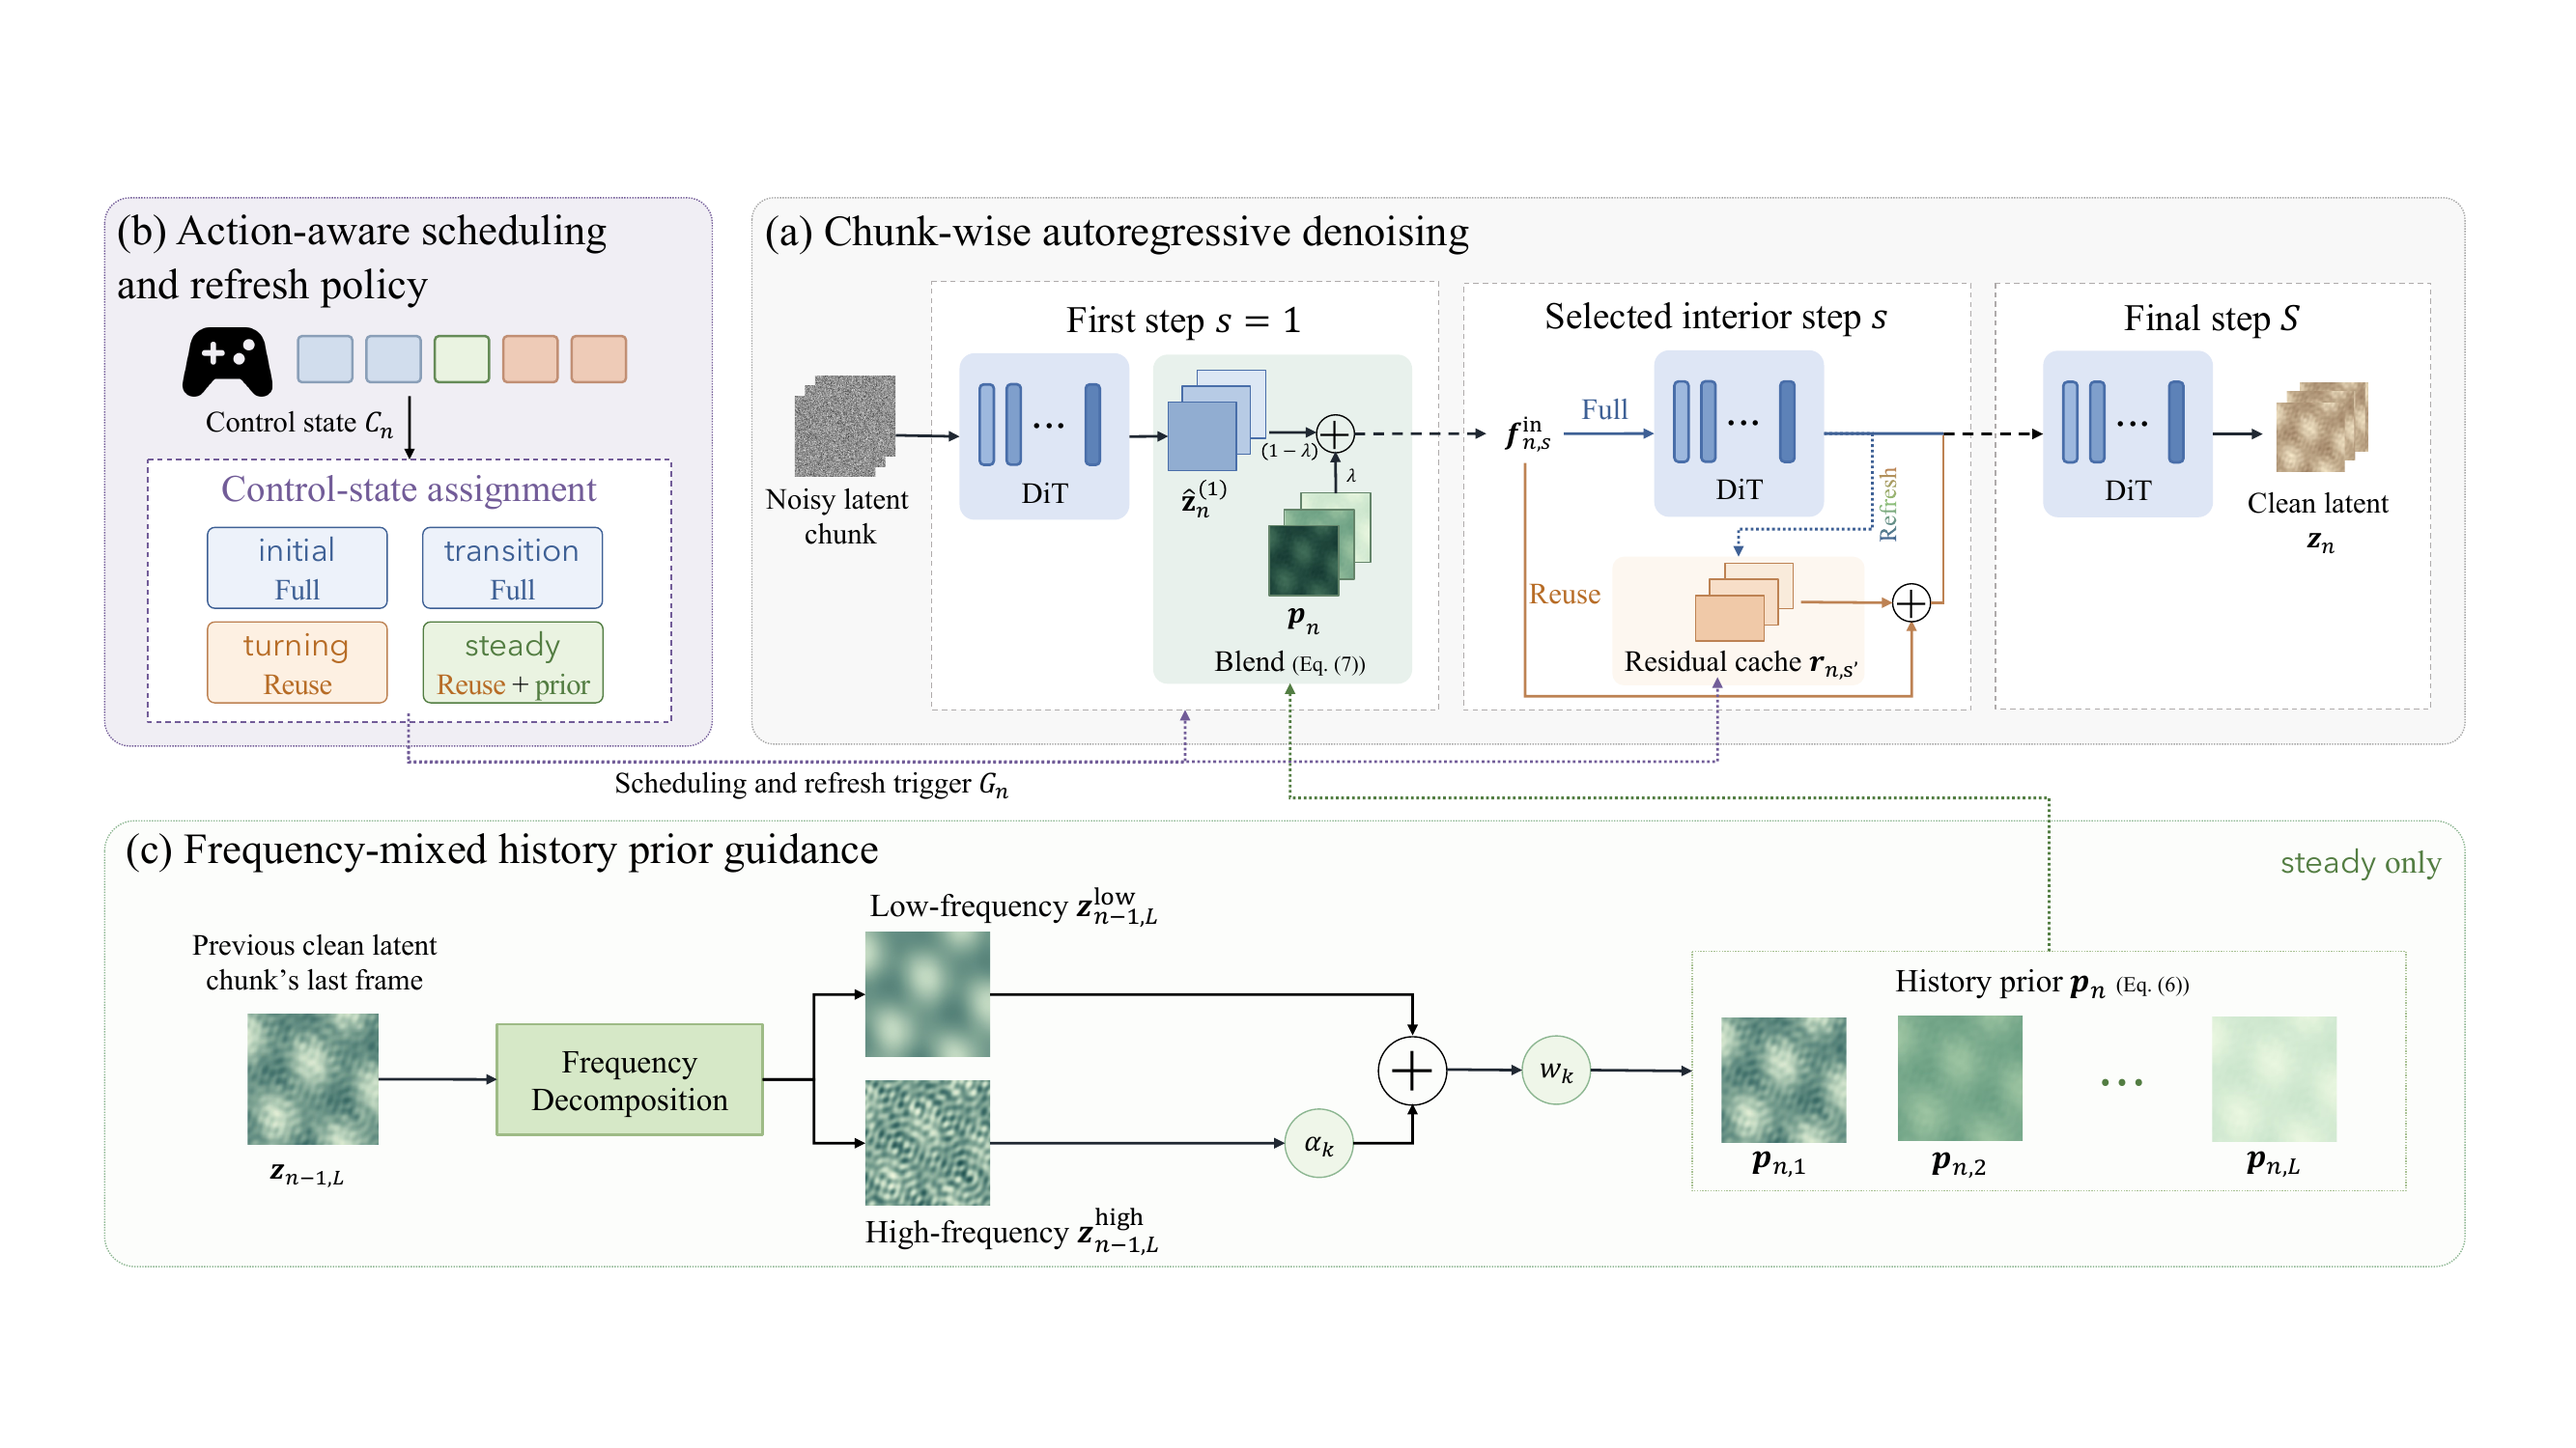
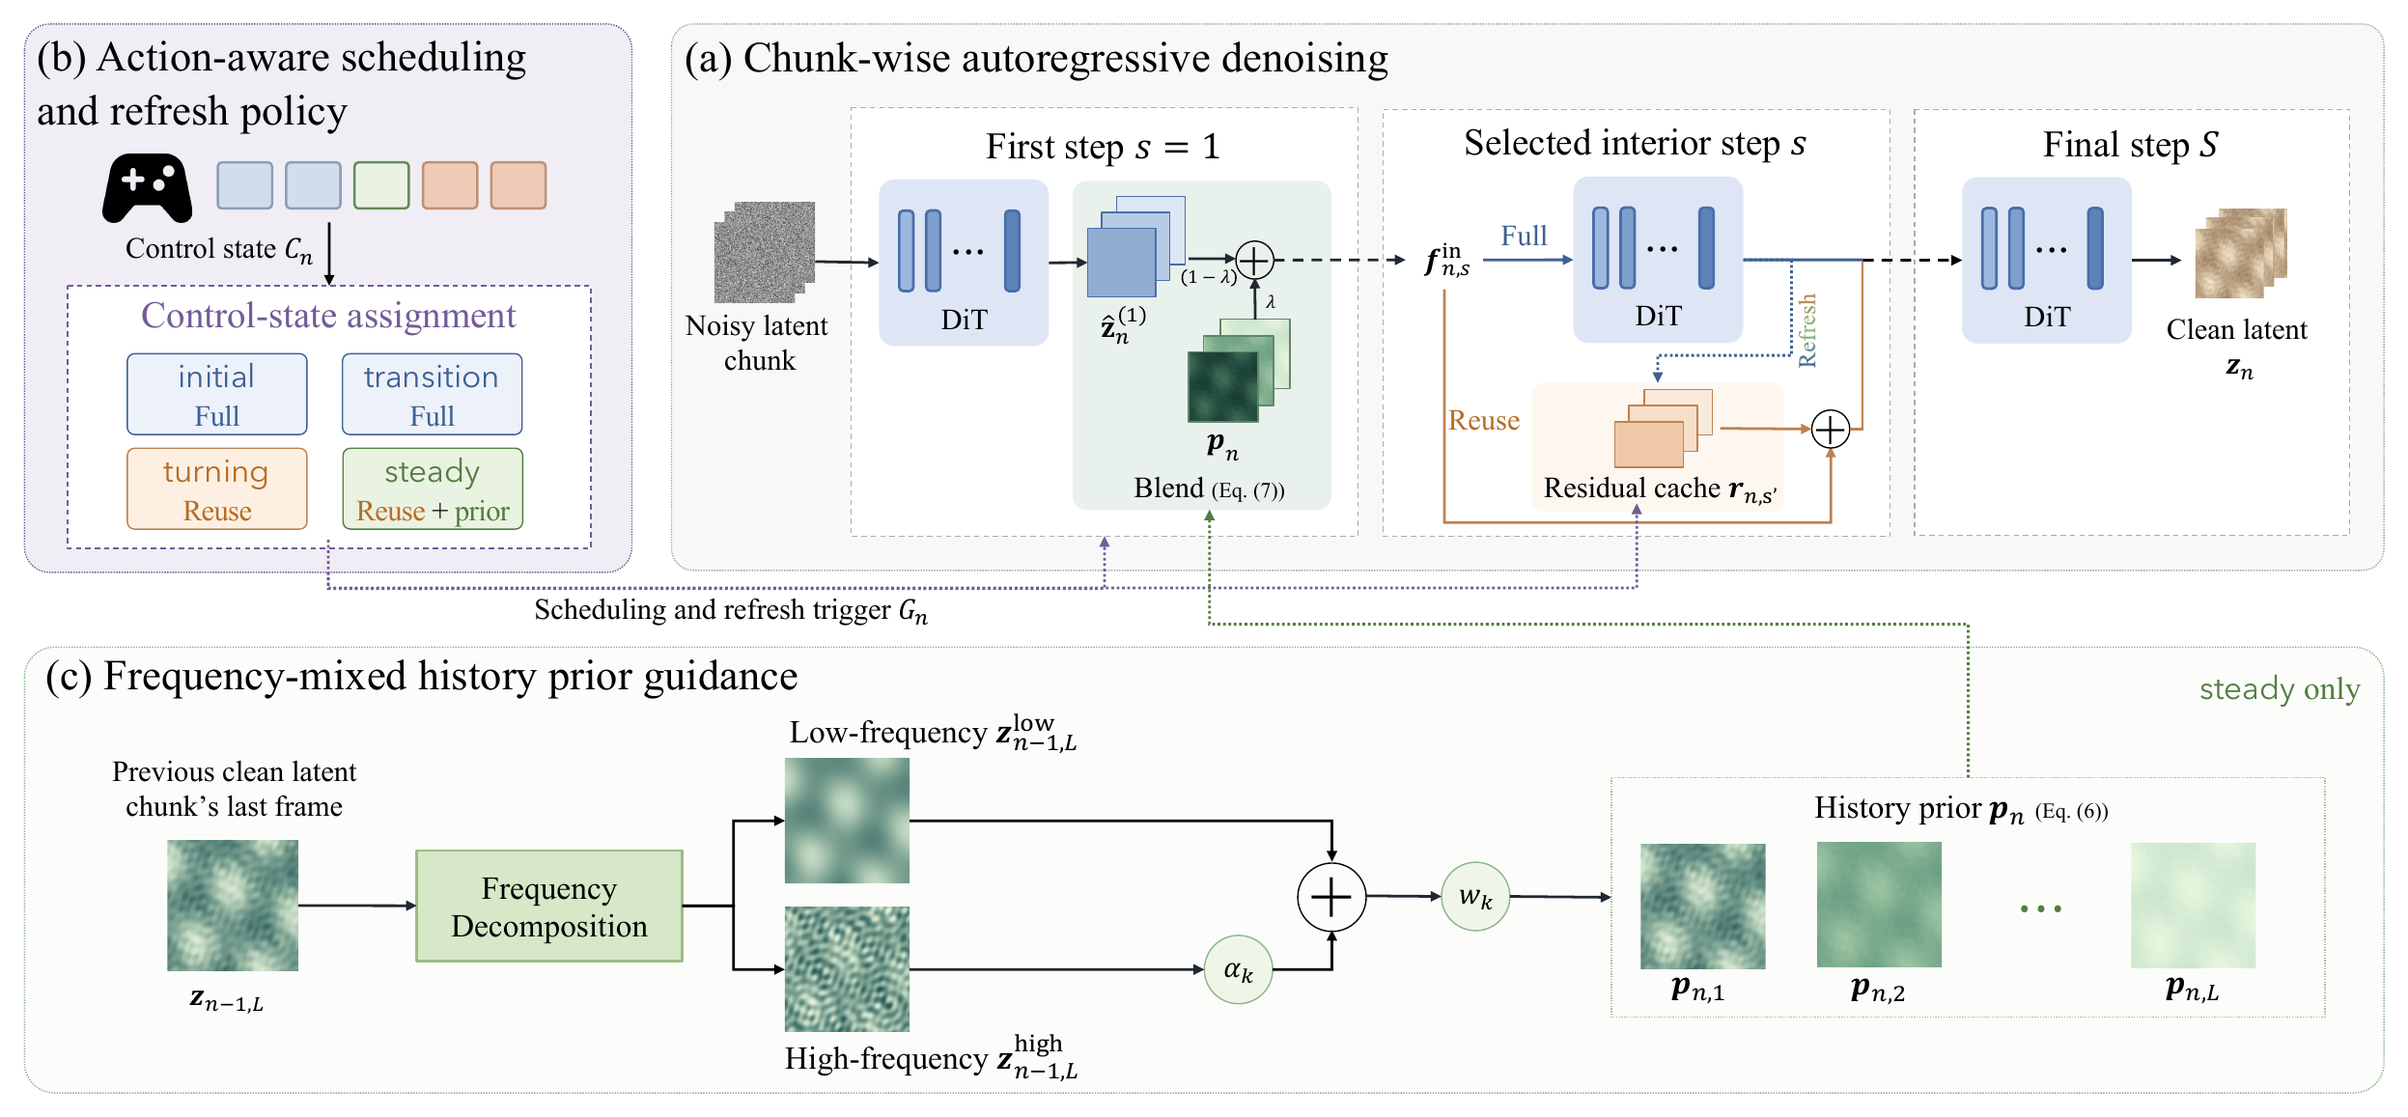
Clarify chunk transitions in hero diagram; trim pipeline figure margins

diff --git a/index.html b/index.html
@@ -111,6 +111,7 @@
   .tl-grid.playing > .state-chip.cur { transform:translateY(-2px); box-shadow:0 4px 12px -4px currentColor; }
   .tl-say { min-height:1.7em; margin:14px 0 0; font-size:.92rem; color:var(--muted); text-align:center; }
   .tl-say b { color:var(--fg); }
+  .tl-say svg { width:12px; height:12px; vertical-align:-1px; }
   .tldr { max-width:780px; margin:36px auto 0; text-align:center; color:var(--muted); font-size:1.02rem; }
   .tldr b { color:var(--fg); }
 
@@ -195,7 +196,12 @@
   .key { min-width:22px; height:24px; padding:0 4px; border-radius:6px; display:grid; place-items:center;
          font:600 12px/1 "JetBrains Mono", ui-monospace, monospace; background:var(--bg-2); color:var(--fg);
          border:1px solid var(--line); border-bottom-width:2px; }
-  .key.chg { background:var(--refresh-soft); border-color:var(--refresh); color:var(--refresh); }
+  .key svg { width:13px; height:13px; display:block; }
+  .key.chg { background:var(--refresh); border-color:var(--refresh); color:#fff; }
+  .chg-note { font-size:.72rem; font-weight:600; color:var(--faint); text-align:center; line-height:1.35; align-self:center; }
+  .chg-note.on { color:var(--refresh); }
+  .chg-note svg { width:11px; height:11px; display:inline-block; vertical-align:-1px; }
+  .chg-note .pair { white-space:nowrap; }
   .state-chip { text-align:center; font-size:.8rem; font-weight:600; border-radius:8px; padding:5px 4px; }
   .s-init, .s-trans { color:var(--full); background:var(--full-soft); }
   .s-turn, .s-steady { color:var(--reuse); background:var(--reuse-soft); }
@@ -212,7 +218,7 @@
   .tl-legend i { width:14px; height:14px; border-radius:4px; display:inline-block; }
   .tl-scroll { overflow-x:auto; }
   .tl-scroll .tl-grid { min-width:720px; }
-  .tl-scroll { padding-bottom:4px; }
+  .tl-scroll { padding-bottom:4px; position:relative; }
 
   .cards { display:grid; grid-template-columns:1fr 1fr; gap:14px; margin-top:16px; }
   .cards > * { min-width:0; }
@@ -323,6 +329,7 @@
       <div class="tl-scroll"><div class="tl-grid" id="tl-grid"></div></div>
       <p class="tl-say" id="tl-say"></p>
       <div class="tl-legend">
+        <span><i style="background:var(--refresh)"></i>Control input where the action changes</span>
         <span><i style="background:var(--full-soft);box-shadow:inset 0 0 0 1px var(--full)"></i>Full DiT forward</span>
         <span><i style="background:var(--reuse-soft);box-shadow:inset 0 0 0 1px var(--reuse)"></i>Residual reuse (skip transformer blocks)</span>
         <span><i style="background:var(--refresh-soft);box-shadow:inset 0 0 0 1.5px var(--refresh)"></i>Refresh at an action change</span>
@@ -658,18 +665,23 @@
 
   // Method timeline: an example control stream and the resulting per-step schedule.
   const CHUNKS = [
-    { keys:["W","W","W","W"], chg:[],     state:"Initial",    cls:"s-init",   mid:"full",    prior:false },
-    { keys:["W","W","W","W"], chg:[],     state:"Steady",     cls:"s-steady", mid:"reuse",   prior:true  },
-    { keys:["W","W","A","A"], chg:[2],    state:"Transition", cls:"s-trans",  mid:"refresh", prior:false },
-    { keys:["A","A","A","A"], chg:[],     state:"Steady",     cls:"s-steady", mid:"reuse",   prior:true  },
-    { keys:["←","←","←","←"], chg:[0],    state:"Transition", cls:"s-trans",  mid:"refresh", prior:false },
-    { keys:["←","←","←","←"], chg:[],     state:"Turning",    cls:"s-turn",   mid:"reuse",   prior:false },
+    { keys:["W","W","W","W"], chg:[],  note:"",                          state:"Initial",    cls:"s-init",   mid:"full",    prior:false },
+    { keys:["W","W","W","W"], chg:[],  note:"",                          state:"Steady",     cls:"s-steady", mid:"reuse",   prior:true  },
+    { keys:["W","W","A","A"], chg:[2], note:"<span class='pair'>W→A</span> within chunk", state:"Transition", cls:"s-trans",  mid:"refresh", prior:false },
+    { keys:["A","A","A","A"], chg:[],  note:"",                          state:"Steady",     cls:"s-steady", mid:"reuse",   prior:true  },
+    { keys:["←","←","←","←"], chg:[0], note:"<span class='pair'>A→←</span> at boundary", state:"Transition", cls:"s-trans",  mid:"refresh", prior:false },
+    { keys:["←","←","←","←"], chg:[],  note:"",                          state:"Turning",    cls:"s-turn",   mid:"reuse",   prior:false },
   ];
   const STEP = { full:["st-full","Full"], reuse:["st-reuse","Reuse"], refresh:["st-refresh","Refresh"] };
+  // Thin text arrows are hard to read at key size, so draw the camera-left control as an icon.
+  const ARROW = '<svg viewBox="0 0 16 16" aria-label="left"><path d="M13 8H3.5M7.5 3.5 3 8l4.5 4.5" fill="none" stroke="currentColor" stroke-width="2.2" stroke-linecap="round" stroke-linejoin="round"/></svg>';
+  const glyphs = t => t.replace(/←/g, ARROW).replace(/→/g, '<svg viewBox="0 0 16 16"><path d="M3 8h9.5M8.5 3.5 13 8l-4.5 4.5" fill="none" stroke="currentColor" stroke-width="2.2" stroke-linecap="round" stroke-linejoin="round"/></svg>');
   const cell = (cls, html, col) => `<div class="${cls}"${col === undefined ? "" : ` data-col="${col}"`}>${html}</div>`;
   let g = cell("tl-row-label", "") + CHUNKS.map((_, i) => cell("tl-chunk-h", `Chunk ${i + 1}`, i)).join("");
   g += cell("tl-row-label", "Controls") + CHUNKS.map((c, i) =>
-    cell("ctrls", c.keys.map((k, j) => `<span class="key${c.chg.includes(j) ? " chg" : ""}">${k}</span>`).join(""), i)).join("");
+    cell("ctrls", c.keys.map((k, j) => `<span class="key${c.chg.includes(j) ? " chg" : ""}">${glyphs(k)}</span>`).join(""), i)).join("");
+  g += cell("tl-row-label", "Change") + CHUNKS.map((c, i) =>
+    cell(`chg-note${c.note ? " on" : ""}`, c.note ? glyphs(c.note) : "—", i)).join("");
   g += cell("tl-row-label", "State") + CHUNKS.map((c, i) => cell(`state-chip ${c.cls}`, c.state, i)).join("");
   g += cell("tl-row-label", "Denoising") + CHUNKS.map((c, i) => {
     const [mc, ml] = STEP[c.mid];
@@ -685,14 +697,18 @@
     "<b>Chunk 2 · Steady</b> — controls unchanged: step <i>s</i> reuses the cached residual, and the history prior guides the first step.",
     "<b>Chunk 3 · Transition</b> — W→A inside the chunk: step <i>s</i> runs a full forward and refreshes the cache.",
     "<b>Chunk 4 · Steady</b> — A held: reuse at step <i>s</i>, again with the history prior.",
-    "<b>Chunk 5 · Transition</b> — A→← across the chunk boundary: full forward, cache refreshed.",
+    "<b>Chunk 5 · Transition</b> — every input is ←, but chunk 4 ended on A, so the action changes at the chunk boundary: full forward, cache refreshed.",
     "<b>Chunk 6 · Turning</b> — sustained camera turn: reuse at step <i>s</i>, no history prior while the view rotates.",
   ];
   const say = document.getElementById("tl-say");
   let tlCol = 0, tlTimer = null;
   const showCol = i => {
     tlGrid.querySelectorAll("[data-col]").forEach(el => el.classList.toggle("cur", +el.dataset.col === i));
-    say.innerHTML = SAY[i];
+    say.innerHTML = glyphs(SAY[i]);
+    // On narrow screens the diagram scrolls sideways; keep the highlighted chunk in view.
+    const sc = tlGrid.parentElement, head = tlGrid.querySelector(`.tl-chunk-h[data-col="${i}"]`);
+    if (sc.scrollWidth > sc.clientWidth && head)
+      sc.scrollTo({ left:head.offsetLeft - (sc.clientWidth - head.offsetWidth) / 2, behavior:"smooth" });
   };
   const tlStart = () => { if (tlTimer) return; tlGrid.classList.add("playing"); showCol(tlCol);
     tlTimer = setInterval(() => { tlCol = (tlCol + 1) % CHUNKS.length; showCol(tlCol); }, 2600); };
@@ -705,7 +721,7 @@
     tlGrid.addEventListener("mouseleave", tlStart);
     // Hovering a column shows its explanation.
     tlGrid.addEventListener("mouseover", e => {
-      const c = e.target.closest("[data-col]"); if (c) { tlCol = +c.dataset.col; say.innerHTML = SAY[tlCol]; }
+      const c = e.target.closest("[data-col]"); if (c) { tlCol = +c.dataset.col; say.innerHTML = glyphs(SAY[tlCol]); }
     });
   }
 
